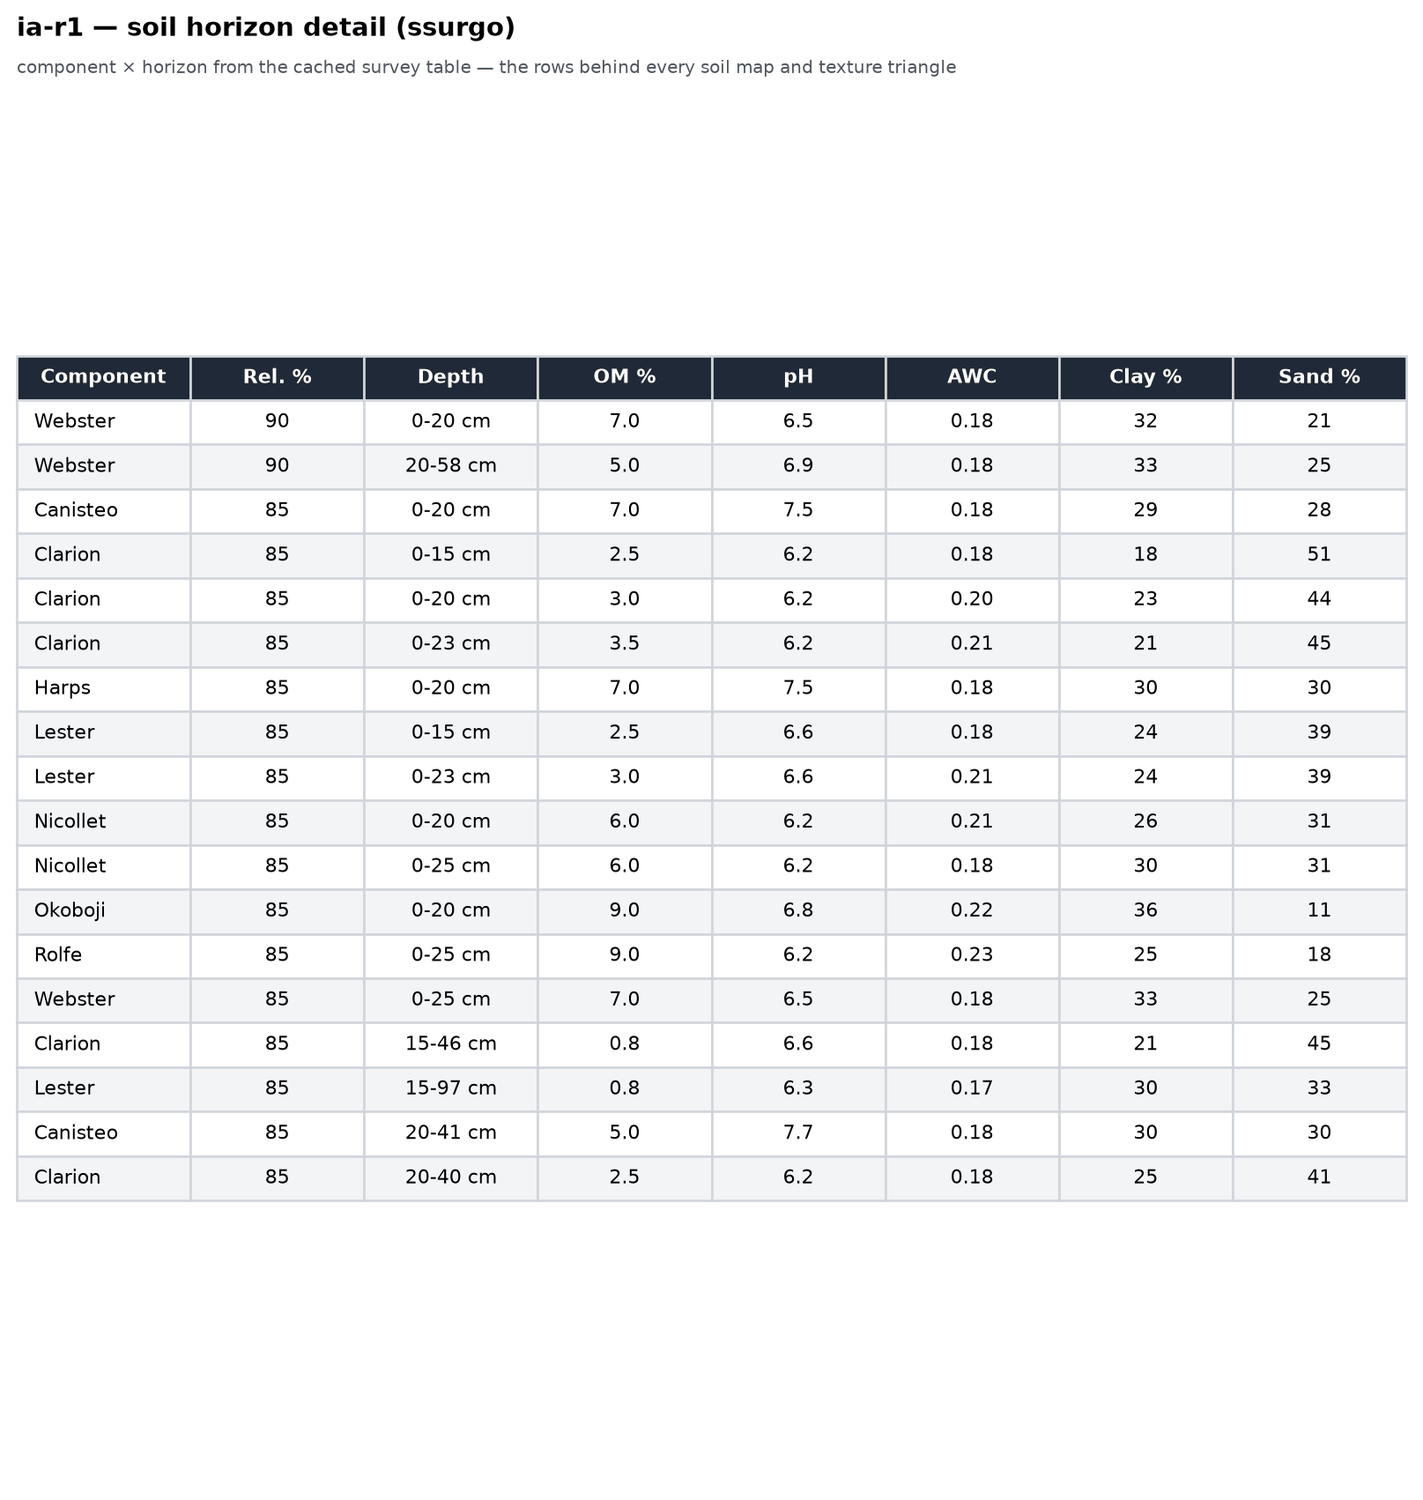
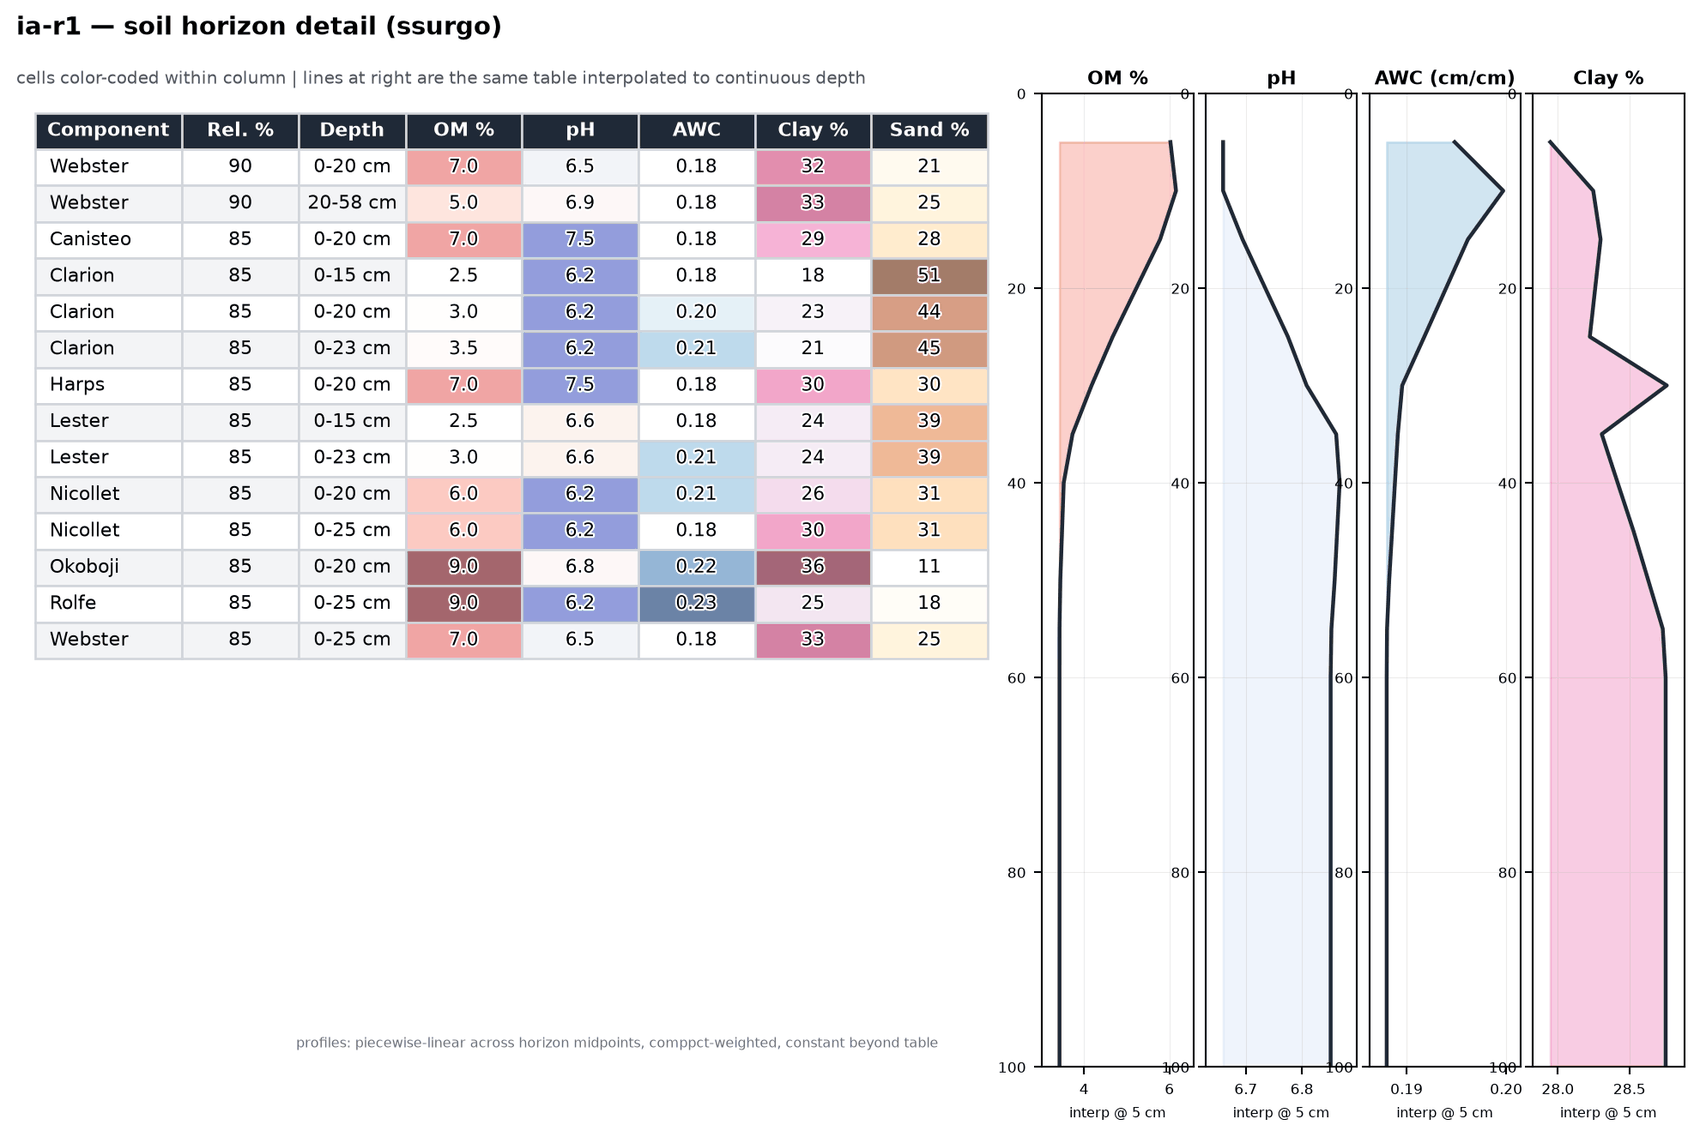
skills parity: horizon tables with color-coding + depth interpolation

Changed region(s): [[0.0, 0.0, 1.0, 0.985], [0.1855, 0.8927, 0.5566, 0.9235], [0.7421, 0.0616, 0.9895, 0.0923]]

diff --git a/skills/my-farm-advisor/data-pipeline/src/scripts/reporting/generate_soil_texture_triangles.py b/skills/my-farm-advisor/data-pipeline/src/scripts/reporting/generate_soil_texture_triangles.py
@@ -252,8 +252,44 @@ def render(csv_path: Path, label: str, out: Path, source_note: str = "SSURGO",
     print(f"saved {out}")
 
 
+def _hex_blend(white_frac: float, rgb) -> str:
+    r, g, b = rgb
+    r = round(255 * white_frac + r * (1 - white_frac))
+    g = round(255 * white_frac + g * (1 - white_frac))
+    b = round(255 * white_frac + b * (1 - white_frac))
+    return f"#{r:02x}{g:02x}{b:02x}"
+
+
+def _interp_profile(df: pd.DataFrame, col: str, bins: np.ndarray) -> np.ndarray | None:
+    """Depth profile for one property: per component, piecewise-linear across
+    horizon midpoints (constant beyond the first/last midpoint); components
+    averaged weighted by comppct_r. The standard SSURGO interval interpolation."""
+    series, weights = [], []
+    for (_c, pct), sub in df.groupby(["compname", "comppct_r"]):
+        sub = sub.dropna(subset=[col]).sort_values("hzdept_r")
+        if sub.empty:
+            continue
+        mid = (sub["hzdept_r"] + sub["hzdepb_r"]) / 2.0
+        val = sub[col]
+        order = np.argsort(mid.values)
+        mid, val = mid.values[order], val.values[order]
+        keep = ~np.isnan(val)
+        if keep.sum() == 0:
+            continue
+        series.append(np.interp(bins, mid[keep], val[keep]))
+        weights.append(pct)
+    if not series:
+        return None
+    w = np.asarray(weights, dtype=float)
+    return (np.vstack(series) * w[:, None]).sum(axis=0) / w.sum()
+
+
 def render_horizon_table(csv_path: Path, label: str, out: Path, source_note: str = "SSURGO") -> None:
-    """Horizon detail table: one row per component x depth slice, topsoil first."""
+    """Color-coded component x horizon table with comppct-weighted,
+    interval-interpolated 0-100 cm depth profiles beside it."""
+    import matplotlib.gridspec as gridspec
+    import matplotlib.patheffects as pe
+
     df = pd.read_csv(csv_path)
     df = df.dropna(subset=["claytotal_r"]).copy()
     df["slice"] = df["hzdept_r"].astype(int).astype(str) + "-" + df["hzdepb_r"].astype(int).astype(str) + " cm"
@@ -261,40 +297,79 @@ def render_horizon_table(csv_path: Path, label: str, out: Path, source_note: str
         hzdept=("hzdept_r", "min"), om=("om_r", "mean"), ph=("ph1to1h2o_r", "mean"),
         awc=("awc_r", "mean"), clay=("claytotal_r", "mean"), sand=("sandtotal_r", "mean"),
     ).sort_values(["comppct_r", "hzdept"], ascending=[False, True])
-    g = g.head(18)
+    g = g.head(14)
 
-    fig, ax = plt.subplots(figsize=(8.6, 0.42 * len(g) + 1.5))
-    ax.axis("off")
+    fig = plt.figure(figsize=(13.2, 0.44 * len(g) + 1.6))
+    gs = gridspec.GridSpec(1, 2, width_ratios=[1.45, 1.0], wspace=0.12)
+    ax_t = fig.add_subplot(gs[0]); ax_t.axis("off")
     cols = ["Component", "Rel. %", "Depth", "OM %", "pH", "AWC", "Clay %", "Sand %"]
+    num_cols = {3: ("om", plt.get_cmap("Reds"), 0.6), 4: ("ph", plt.get_cmap("coolwarm_r"), 0.55),
+                5: ("awc", plt.get_cmap("Blues"), 0.6), 6: ("clay", plt.get_cmap("PuRd"), 0.6),
+                7: ("sand", plt.get_cmap("YlOrBr"), 0.6)}
     cells = [
         [r.compname, f"{r.comppct_r:.0f}", r.slice,
-         "-" if pd.isna(r.om) else f"{r.om:.1f}",
-         "-" if pd.isna(r.ph) else f"{r.ph:.1f}",
-         "-" if pd.isna(r.awc) else f"{r.awc:.2f}",
-         f"{r.clay:.0f}", "-" if pd.isna(r.sand) else f"{r.sand:.0f}"]
+         "" if pd.isna(r.om) else f"{r.om:.1f}",
+         "" if pd.isna(r.ph) else f"{r.ph:.1f}",
+         "" if pd.isna(r.awc) else f"{r.awc:.2f}",
+         f"{r.clay:.0f}", "" if pd.isna(r.sand) else f"{r.sand:.0f}"]
         for r in g.itertuples()
     ]
-    tbl = ax.table(cellText=cells, colLabels=cols, loc="center", cellLoc="center")
-    tbl.auto_set_font_size(False)
-    tbl.set_fontsize(8.2)
-    tbl.scale(1, 1.32)
+    tbl = ax_t.table(cellText=cells, colLabels=cols, loc="upper left", cellLoc="center")
+    tbl.auto_set_font_size(False); tbl.set_fontsize(8.2)
+    tbl.auto_set_column_width(col=(0, 2))
+    tbl.scale(1, 1.34)
+    spans = {}
+    for ci, (key, _, _) in num_cols.items():
+        vals = pd.to_numeric(pd.Series([row[ci] for row in cells]), errors="coerce").dropna()
+        if len(vals):
+            spans[ci] = (vals.min(), vals.max())
     for (row, col), cell in tbl.get_celld().items():
         cell.set_edgecolor("#d1d5db")
         if row == 0:
-            cell.set_facecolor("#1f2937")
-            cell.set_text_props(color="white", weight="bold")
+            cell.set_facecolor("#1f2937"); cell.set_text_props(color="white", weight="bold")
+            continue
+        if col in num_cols and cells[row - 1][col]:
+            key, cmap, strength = num_cols[col]
+            lo, hi = spans[col]
+            v = float(cells[row - 1][col])
+            f = 0.5 if hi == lo else (v - lo) / (hi - lo)
+            if key == "ph":  # diverging: neutral mid keeps lightness honest
+                f = abs(v - float(np.mean([lo, hi]))) / max((hi - lo) / 2, 1e-9)
+            cell.set_facecolor(_hex_blend(1 - strength * f, tuple(int(x * 255) for x in cmap(f)[:3])))
+            cell.set_text_props(path_effects=[pe.withStroke(linewidth=1.6, foreground="white")])
         elif row % 2 == 0:
             cell.set_facecolor("#f3f4f6")
-        if col == 0 and row > 0:
+        if col == 0:
             cell.set_text_props(ha="left")
-    ax.set_title(
+    ax_t.set_title(
         f"{label} — soil horizon detail ({source_note.lower()})",
-        fontsize=11, weight="bold", loc="left", pad=16,
+        fontsize=11, weight="bold", loc="left", pad=26,
     )
-    ax.text(0, 1.0, "component × horizon from the cached survey table — the rows behind "
-            "every soil map and texture triangle", transform=ax.transAxes,
-            fontsize=7.4, color="#4b5563")
-    fig.tight_layout()
+    ax_t.text(0, 1.01, "cells color-coded within column | lines at right are the same table "
+              "interpolated to continuous depth", transform=ax_t.transAxes,
+              fontsize=7.4, color="#4b5563")
+
+    # --- interpolated profiles (comppct-weighted, 5 cm bins) ---
+    bins = np.arange(5, 101, 5.0)
+    panels = [("OM %", _interp_profile(df, "om_r", bins), plt.get_cmap("Reds")),
+              ("pH", _interp_profile(df, "ph1to1h2o_r", bins), plt.get_cmap("coolwarm_r")),
+              ("AWC (cm/cm)", _interp_profile(df, "awc_r", bins), plt.get_cmap("Blues")),
+              ("Clay %", _interp_profile(df, "claytotal_r", bins), plt.get_cmap("PuRd"))]
+    have = [(n, y, c) for n, y, c in panels if y is not None]
+    gs2 = gridspec.GridSpecFromSubplotSpec(1, len(have), subplot_spec=gs[1], wspace=0.08)
+    for i, (name, y, cmap) in enumerate(have):
+        ax = fig.add_subplot(gs2[i])
+        ax.plot(y, bins, color="#1f2937", lw=1.7)
+        ax.fill_betweenx(bins, y, y.min(), alpha=0.25, color=cmap(0.6))
+        ax.set_ylim(100, 0); ax.set_xlim(y.min() - (y.max()-y.min())*0.15 - 1e-9,
+                                         y.max() + (y.max()-y.min())*0.15 + 1e-9)
+        ax.set_title(name, fontsize=8.2, weight="bold", pad=4)
+        ax.tick_params(labelsize=6.6)
+        ax.grid(alpha=0.25, lw=0.4)
+        ax.set_xlabel("interp @ 5 cm", fontsize=6.2)
+    ax_t.text(0.99, 0.02, "profiles: piecewise-linear across horizon midpoints, comppct-weighted, "
+              "constant beyond table", transform=ax_t.transAxes, fontsize=6.0,
+              color="#6b7280", ha="right")
     out.parent.mkdir(parents=True, exist_ok=True)
     fig.savefig(out, dpi=190, bbox_inches="tight", facecolor="white")
     plt.close(fig)
